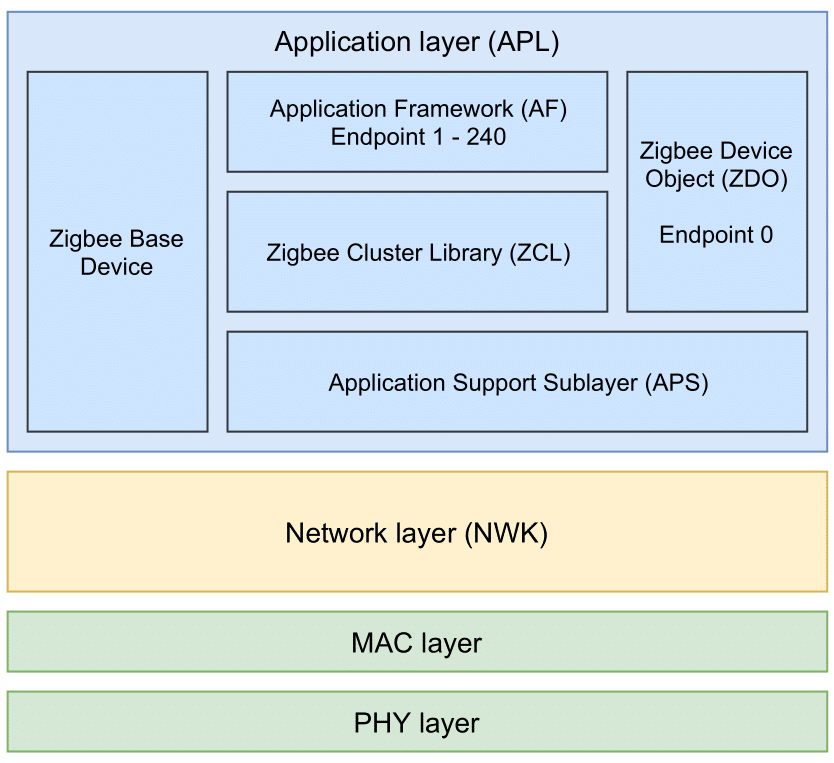
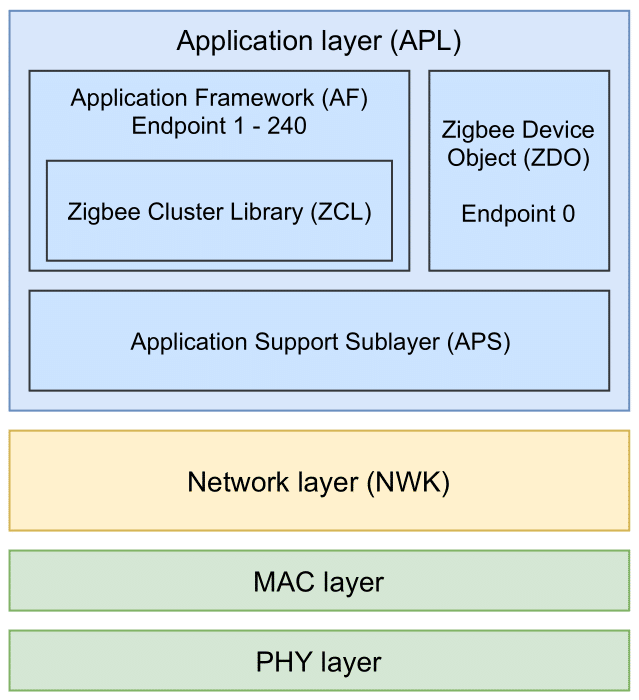
...

Changed region(s): [[0.0, 0.0, 1.0, 0.99], [0.2973, 0.66, 0.7136, 0.72]]

diff --git a/Fachbericht/sections/3_2_Technische Grundlagen.tex b/Fachbericht/sections/3_2_Technische Grundlagen.tex
@@ -2,8 +2,6 @@
 \section{Technische Grundlagen Zigbee}\label{sec:TechnischeGrundlagenZigbee}
 
 \subsection{Netzaufbau und Topologie}\label{subsec:NetzaufbauundTopologie}
-\todo[inline]{Welchen Aufbau? Welche Art von Mesh? Welche Nodetypen gibt es? Welche typischen Eigenschaften besitzt das Protokoll?}
-
 
 Zigbee ist nicht gleich Zigbee. Obwohl Zigbee von zentraler Stelle, der Zigbee Alliance, spezifiziert wurde gibt es verschiedene Arten davon. In den Spezifikationen wird zwischen zwei sogenannten Stackprofilen \textit{ZigBee} und \textit{ZigBee PRO} unterschieden.
 Während \textit{ZigBee}-Netzwerke eine Baumstruktur haben und der Koordinator dabei einen Single-Point-of-Failure bildet, bieten \textit{ZigBee PRO}-Netzwerke geroutete Mesh Funktionalitäten mit Routing Tabellen und Wegentdeckung. Der Koordinator bildet dabei nicht länger einen Single-Point-of-Failure da sich das Routing dynamisch anpassen kann.
@@ -36,7 +34,6 @@ Dadurch können sehr lange Batteriestandzeiten erreicht werden. \cite{markus_kra
 
 
 \subsection{Zigbee Protokoll Stack}\label{subsec:ZigbeeProtokollStack}
-\todo[inline]{Erläuterung des Protokoll Stacks. Möglichst viel Grafiken und nur so viel als nötig Prosa.}
 
 Die Architektur des Zigbee Stacks besteht aus vier Layern, dem Physical layer (PHY), dem MAC layer, dem Network layer (NWK) und dem Application layer (APL).
 Abbildung \ref{fig:ArchitekturdesZigbeeProtokollStacks} zeigt den Aufbau des Protokoll Stacks im Detail.
@@ -71,38 +68,67 @@ Die im MAC Layer definierte 64-Bit MAC Adresse kann ebenfalls vollwertig für di
 Das Routing geschieht innerhalb von Zigbee Mesh Netzwerken mit dem \textit{ZigBee PRO}-Stackprofil mittels Routingtabellen die jeder Router erstellt und nach führt wenn es Änderungen gibt. In dieser ist die \textit{Short-Address} des Ziels sowie jene des nächsten Hops hinterlegt.
 Enthält die Routingtabelle veraltete Einträge oder sind für das entsprechende Ziel noch gar keine Informationen vorhanden, muss ein \textit{Route Discovery} durchgeführt werden.
 Hierbei handelt es sich um eine Broadcast Nachricht welche an alle Router gesendet wird. Diese empfangen die Nachricht und leiten sie wiederum als Broadcast an alle Router in Reichweite weiter. Dabei werden die Wegkosten jeweils addiert um diese sobald die Nachricht beim Zielnode angekommen ist, dem Absender mitzuteilen.
-Jener Weg mit den geringsten totalen Wegkosten wir so ermittelt und kann schliesslich in der Routingtabelle abgelegt werden.
+So wird jener Weg mit den geringsten totalen Wegkosten ermittelt und kann schliesslich in der Routingtabelle abgelegt werden.
 
 
-\subsubsection{Application Support Sublayer (APS)}\label{subsubsec:ApplicationSupportSublayer}
+\subsubsection{Application Layer (APL)}\label{subsubsec:ZigbeeApplicationLayer}
+Der Zigbee Application Layer kann in drei Teile unterteilt werden, den Application Support Sublayer, das Zigbee Device Object und das Application Framework mit der Zigbee Cluster Library als eigentliche Anwendung.
+
+\paragraph{Application Support Sublayer (APS)}\label{par:ZigbeeApplicationSupportSublayer}
+Wie der Name andeutet ist der APS Layer für die Anwendungsunterstützung zuständig und ist als Zwischenschicht im Application Layer eingebettet.
+Zu den Aufgaben des APS Layers gehören das Binding, das Gruppenmanagement, die Datenübertragung inkl. Fragmentierung sowie das Erstellen und Versenden von APS-Frames.
+Ausserdem bietet der APS Layer eine Möglichkeit der Empfangsbestätigung auf Applikationsebene. Anders als die Empfangsbestätigung auf MAC Ebene ist diese nicht nur auf Funkmodule in unmittelbarer Reichweite beschränkt.
+
+\begin{figure}[h]
+	\centering
+	\includegraphics[width=\textwidth]{Zigbee_Frame_Structure.png}
+	\caption{Zigbee Frame Struktur bei aktivierten Sicherheitsfunktionen \cite[S.~286]{markus_krause_rainer_konrad_zigbee_2014}}
+	\label{fig:ZigbeeFrameStruktur}
+\end{figure}
+
+Die Fragmentierung von APS Nutzdaten basiert darauf, dass die Grösse von Frames durch den PHY Layer auf 127 Byte beschränkt ist.
+Abzüglich sämtlicher Header auf MAC, NWK sowie APS Ebene und sonstigem Protokoll Overhead beispielsweise hinsichtlich Sicherheit, reduziert sich die nutzbare APS-Payload Grösse auf 53 Byte (siehe Abbildung \ref{fig:ZigbeeFrameStruktur}).
+Sollen nun grössere Daten übertragen werden führt der APS Layer eine Fragmentierung durch \cite[S.~279 - 299]{markus_krause_rainer_konrad_zigbee_2014}.
 
 
-\subsubsection{Application Layer}\label{subsubsec:ZigbeeApplicationLayer}
+\paragraph{Application Framework (AF) mit Zigbee Cluster Library (ZCL)}\label{par:ZigbeeAFZCL}
+Das Application Framework bildet den Bereich des APL in dem die eigentlichen Anwendung abläuft. Für die Adressierung stehen dem Anwender dabei 240 sogenannte Endpoints zur Verfügung. Endpoints können mit dem Prinzip von Ports im TCP/IP Modell verglichen werden.
+Sie dienen dazu unterschiedliche Anwendungen auf dem selben Node zu adressieren.
+Innerhalb des AF können Anwendungen nun prinzipiell frei umgesetzt werden.
+Um den Herstellern jedoch eine herstellerunabhängige Applikationsentwicklung zu ermöglichen, wurde durch die Zigbee Alliance die \textit{Zigbee Cluster Library (ZCL)} spezifiziert.
+Anwendungen wie beispielsweise ein Lichtschalter, werden durch sogenannte Cluster detailliert beschrieben.
+Dabei handelt es sich um eine Sammlung von Kommandos und Attributen für den jeweiligen Anwendungszweck.
 
-\paragraph{Zigbee Cluster Library (ZCL)}\label{par:ZigbeeClusterLibrary}
-
-\paragraph{Endpunkte}\label{par:ZigbeeEndpunkte}
-
+\paragraph{Zigbee Device Object (ZDO)}\label{par:ZigbeeDeviceObject}
+Das Zigbee Device Object ist ein eigenständiges Anwendungsobjekt welches immer mit dem Endpoint 0 addressiert wird.
+Es setzt die Funktionalitäten gemäss Definition der Zigbee Rollen (Koordinator, Router, Enddevice) um und benutzt dafür Funktionen der NWK sowie APS Schicht.
+Beispielsweise ist es zuständig für das Netzwerkmanagement, Knotenmanagement und auch für die Implementation von Sicherheitsfunktionen.
 
 \subsubsection{Sicherheit}\label{subsucsec:ZigbeeSicherheit}
-
+\todo[inline]{Sicherheitsmechanismus beschreiben.}
 
 
 \subsection{Zigbee Software Development Kit}\label{subsec:ZigbeeSoftwareDevelopmentKit}
 \todo[inline]{Eingesetzte SDK und deren Aufbau beschreiben. Allenfalls die wichtigsten API Funktionen genauer erläutern.}
 
-nRF5 SDK for Thread and Zigbee
+Für die Umsetzung von Zigbee Applikationen auf dem nRF52840 SoC \ref{subsec:SystemonChip} stellt Nordic Semiconductor ein eigenes Software Development Kit (SDK) zur Verfügung, die \textit{nRF5 SDK for Thread and Zigbee} \cite{nordic_semi_nrf_sdk_for_thread_and_zigbee_2020}.
+Da Thread und Zigbee den selben IEEE 802.15.4 MAC Layer benutzen, teilen sich die beiden Protokollstacks eine gemeinsame SDK.
+Innerhalb der SDK nutzen die beiden jedoch unterschiedliche Ressourcen.
 
-ZBOSS stack v3.3.0
+Für Zigbee Applikationen kommt ein Plattform Design gemäss Abbildung \ref{fig:ZigbeePlattformDesign} zum Einsatz. 
+Als eigentlicher Zigbee Stack kommt dabei der \textit{ZBOSS} Zigbee Stack in der Version 3.3 von DSR\footnote{ZBOSS stack v3.3.0: \url{https://dsr-iot.com/}} zum Einsatz.
+Es handelt sich dabei um einen weit verbreiteten \textit{Zigbee PRO} Stack welcher die neuste Version der Zigbee Core Specification rev22 umsetzt.
+\textit{ZBOSS} verwendet dabei ein kooperatives Multitasking Prinzip mit einem Scheduler welche die aktiven Tasks verwaltet.
 
-Kooperatives Multitasking in ZBOSS
+Unter dem \textit{ZBOSS} Stack verwendet die SDK den \textit{nRF IEEE 802.15.4 radio driver} für die Ansteuerung der Funkschnittstelle.
+Oberhalb des \textit{ZBOSS} Stacks befindet sich die Applikationsebene in welcher unter anderem ZCL Funktionen auch aus \textit{ZBOSS} verwendet werden können.
 
-revision 22 of the Zigbee Core Specification.
+
  
  \begin{figure}[h]
 	\centering
 	\includegraphics[width=0.6\textwidth]{Zigbee_SDK_Plattform_Design.png}
-	\caption{nRF5 SDK for Thread and Zigbee Plattform Design Referenz \cite{nordic_semi_nrf_sdk_for_thread_and_zigbee_2020}}
+	\caption{nRF5 SDK for Thread and Zigbee Plattform Design Referenz für Zigbee Applikationen \cite{nordic_semi_nrf_sdk_for_thread_and_zigbee_2020}}
 	\label{fig:ZigbeePlattformDesign}
 \end{figure}
  

diff --git a/Fachbericht/sections/3_1_Uebersicht.tex b/Fachbericht/sections/3_1_Uebersicht.tex
@@ -7,6 +7,8 @@ Cyrill Horath
 \section{Einleitung}\label{sec:EinleitungZigbee}
 \todo[inline]{Kurze Einleitung ins Thema Zigbee. Dieser Teil ist komplett losgelöst von den anderen Teilen. Es soll klar ersichtlich sein dass dieser Teil durch Cyrill Horath erstellt wurde.}
 
+In diesem Teil der Arbeit werden die Besonderheiten und Eigenschaften des Zigbee Mesh Stack erläutert und es wird auf die Umsetzung des Benchmarks auf Stack Ebene eingegangen. Dieser Teil soll als eigenständiger Teil betrachtet werden in dem ausschliesslich Zigbee behandelt wird.
+
 Zigbee ist ein auf dem IEEE 802.15.4 Standard aufbauendes drahtloses Low Power Mesh Netzwerk. Es nutzt das vom IEEE 802.15.4 Standard definierte ISM-Funkfrequenzband 2.4GHz plus weitere Sub-GHz Bänder je nach Region.
 Die im Jahre 2002 gegründete Zigbee Allianz spezifiziert den Protokoll Standard und gibt seit da an laufend Neuerungen und Updates heraus.
 Im Zuge der Verbreitung von Technologien in der Heim Automatisierung erhielt auch Zigbee immer mehr Aufmerksamkeit und wuchs bis heute zum wohl am weitesten verbreiteten Mesh Netzwerk Protokoll in diesen Gebiet heran. Besonders in Systemen für die Steuerung von Beleuchtungen wie zum Beispiel Phillips Hue und Ikea Tradfri kommt Zigbee verbreitet zum Einsatz.
